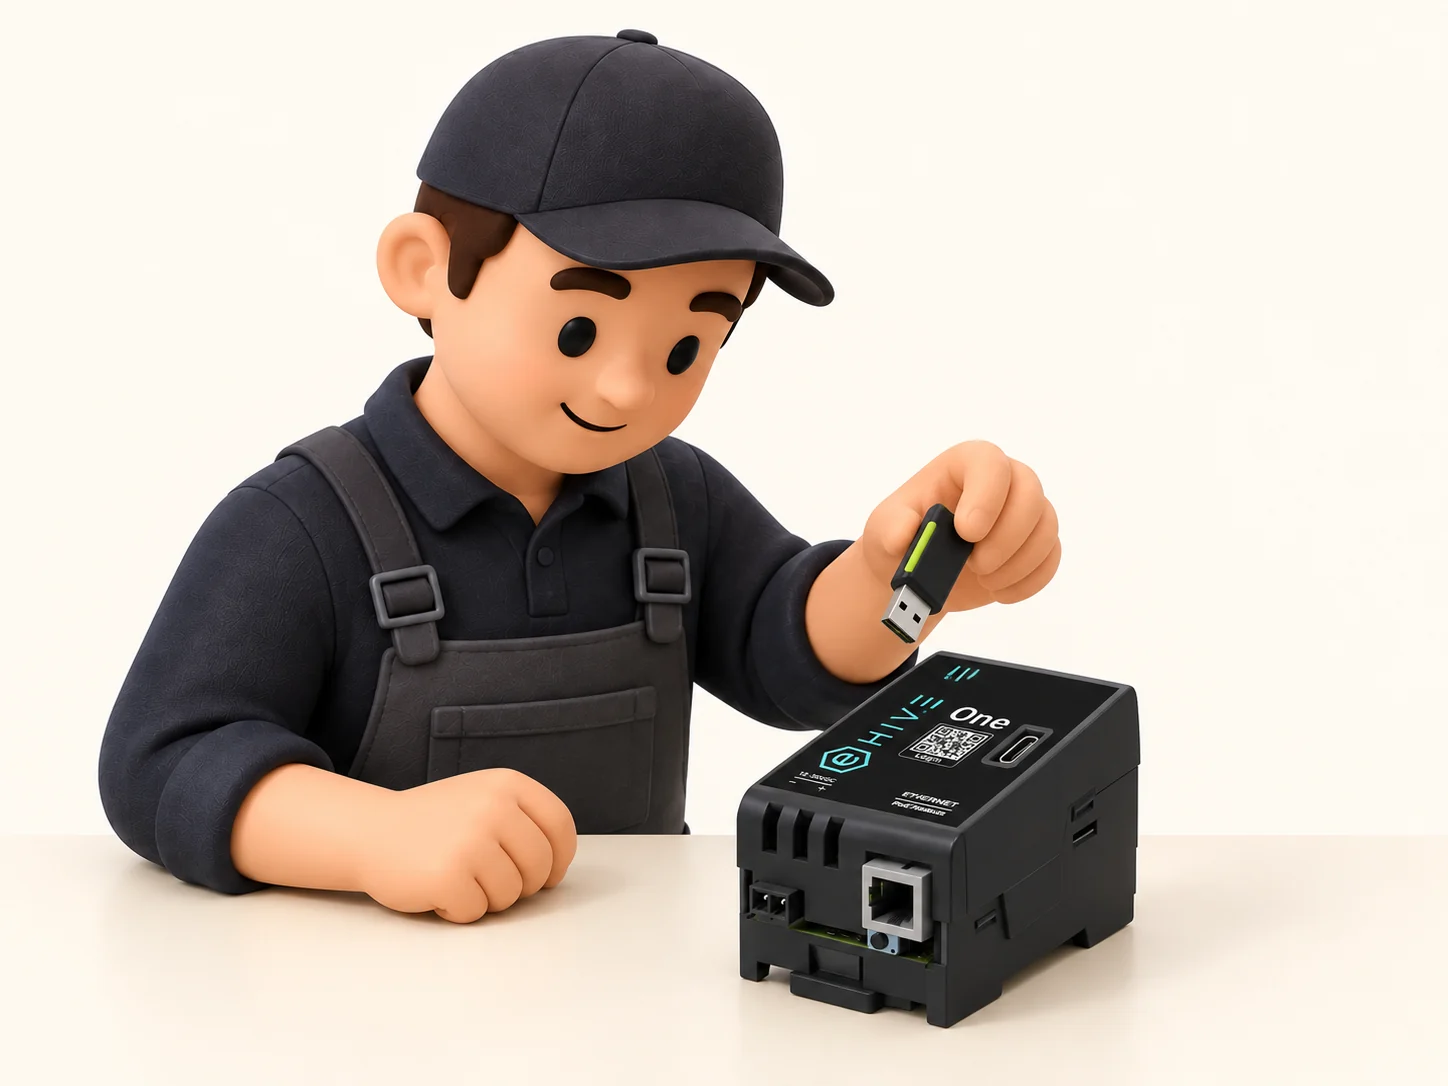
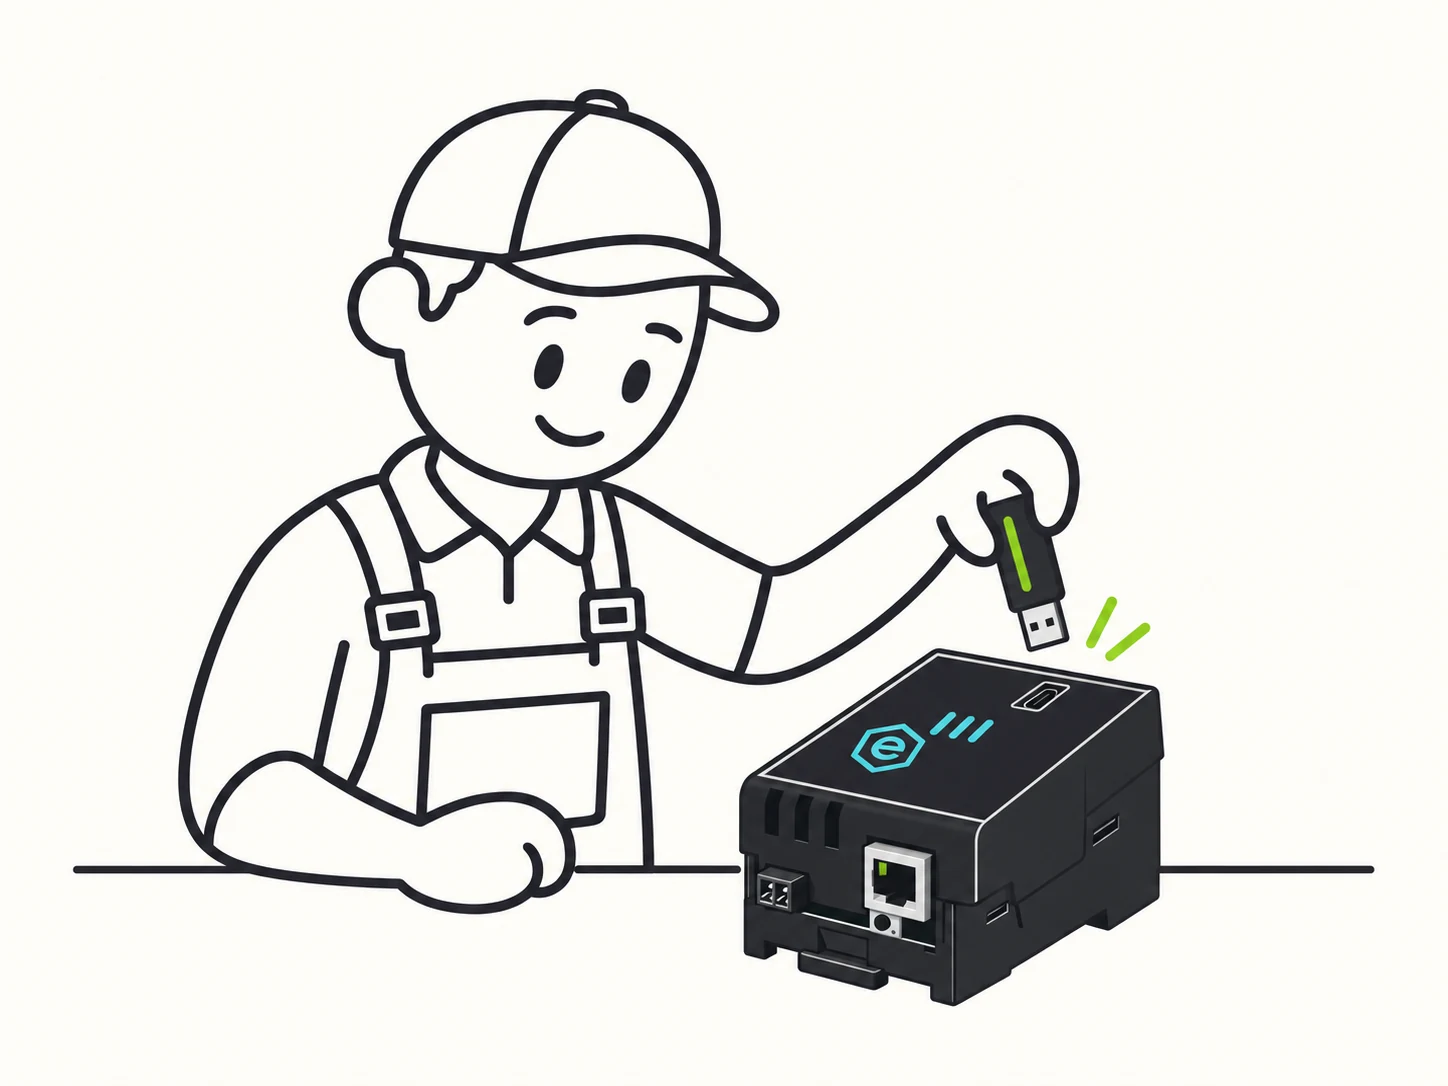
news: simplify USB setup illustration

diff --git a/news-smarthub-usb-config.html b/news-smarthub-usb-config.html
@@ -91,7 +91,7 @@
         <p>Die grüne LED bestätigt die Verarbeitung. In <code>status.conf</code> stehen danach nur die tatsächlich aktiven Werte – ideal für Übergabe und Service.</p>
 
         <figure class="news-feature-figure">
-          <img src="img/news/ehive-usb-config-serienvorbereitung.webp" width="1448" height="1086" loading="lazy" alt="Illustration eines Installateurs bei der Vorbereitung eines eHive One mit einem USB-Stick" />
+          <img src="img/news/ehive-usb-config-serienvorbereitung.webp" width="1448" height="1086" loading="lazy" alt="Strichzeichnung eines Installateurs bei der Vorbereitung eines eHive One mit einem USB-Stick" />
           <figcaption>Ein vorbereiteter Stick macht wiederkehrende Konfigurationen schnell und reproduzierbar.</figcaption>
         </figure>
 
